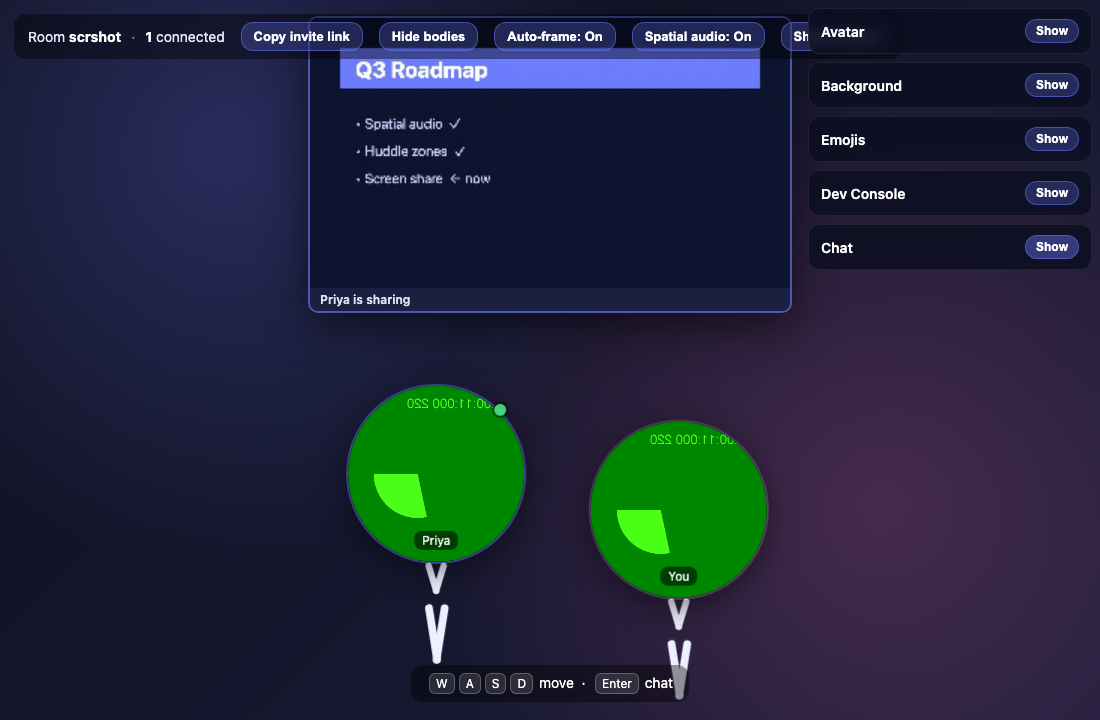
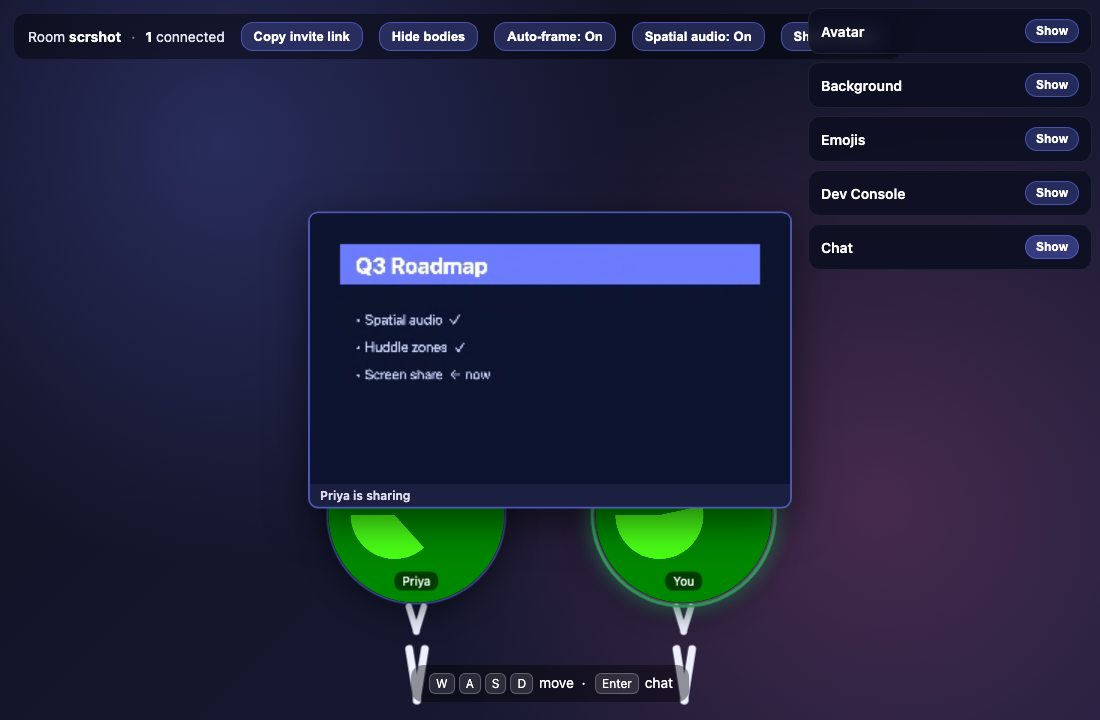
Centre the shared-screen panel on the board
Was pinned to the top; now vertically + horizontally centred so the shared
screen is the focal point people gather around.

Changed region(s): [[0.2782, 0.3361, 0.7418, 0.9778], [0.2782, 0.0611, 0.7109, 0.3056]]

diff --git a/style.css b/style.css
@@ -248,9 +248,9 @@ body {
 /* ---- Shared screens ---- */
 .screen-layer {
   position: absolute;
-  top: 16px;
+  top: 50%;
   left: 50%;
-  transform: translateX(-50%);
+  transform: translate(-50%, -50%);
   display: flex;
   gap: 14px;
   max-width: 94vw;